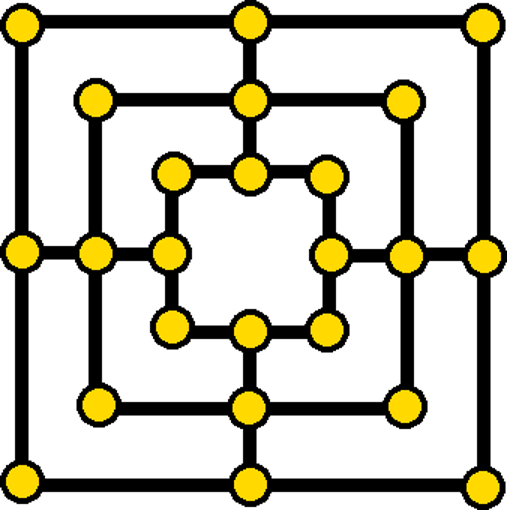
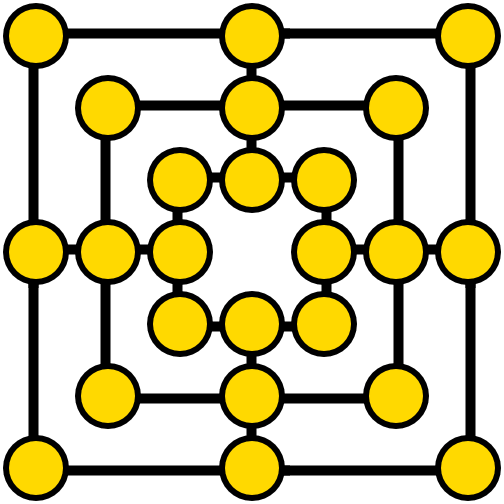
Rediseño del tablero, reposicionamiento del label del turno y mostrar las fichas colocas en el tablero

diff --git a/src/main/java/gui/NineMensMorrisGUI.java b/src/main/java/gui/NineMensMorrisGUI.java
@@ -10,11 +10,15 @@ import java.awt.event.MouseAdapter;
 import java.awt.event.MouseEvent;
 
 public class NineMensMorrisGUI extends JFrame {
-    public static final int CELL_SIZE = 73;
+    public static final int CELL_SIZE = 72;
     public static final int TOTAL_PIECES = 9;
     public static final int HEIGHT_PADDING = 16;
-    public static final String PATH = System.getProperty("user.dir") + "\\src\\assets\\img\\Piece_";
-    public static final String SELECTED = "_Selected.png";
+    private static final String PATH = System.getProperty("user.dir") + "\\src\\assets\\img\\Piece_";
+    private static final String SELECTED = "_Selected.png";
+    private static final ImageIcon WHITEICON = new ImageIcon(PATH + "White.png");
+    private static final ImageIcon WHITESELECTEDICON = new ImageIcon(PATH + "White" + SELECTED);
+    private static final ImageIcon BLACKICON = new ImageIcon(PATH + "Black.png");
+    private static final ImageIcon BLACKSELECTEDICON = new ImageIcon(PATH + "Black" + SELECTED);
 
     private boolean state = true;
     private int indexW = 0;
@@ -24,7 +28,6 @@ public class NineMensMorrisGUI extends JFrame {
     private JLabel[] blackPieces;
 
     private GameBoard gameboard;
-    private TurnBar barStatus;
     private JLabel activePieceIcon;
 
     private NineMensMorrisGame controller;
@@ -45,7 +48,7 @@ public class NineMensMorrisGUI extends JFrame {
 
     private void setContentPane() {
         gameboard = new GameBoard();
-        gameboard.setPreferredSize(new Dimension(512, 576));
+        gameboard.setPreferredSize(new Dimension(504, 600));
 
         whitePieces = new JLabel[TOTAL_PIECES];
         InitPieces whitePieces = new InitPieces("White",this.whitePieces);
@@ -55,9 +58,6 @@ public class NineMensMorrisGUI extends JFrame {
         InitPieces blackPieces = new InitPieces("Black", this.blackPieces);
         blackPieces.setPreferredSize(new Dimension(64, 64*TOTAL_PIECES));
 
-        barStatus = new TurnBar();
-        barStatus.setPreferredSize(new Dimension(512, 90));
-
         Container contentPane = getContentPane();
         contentPane.setLayout(new BorderLayout());
         contentPane.setBackground(Color.decode("#A9814E"));
@@ -65,11 +65,9 @@ public class NineMensMorrisGUI extends JFrame {
         contentPane.add(gameboard, BorderLayout.CENTER);
         contentPane.add(whitePieces, BorderLayout.WEST);
         contentPane.add(blackPieces, BorderLayout.EAST);
-        contentPane.add(barStatus, BorderLayout.SOUTH);
     }
 
     class InitPieces extends JPanel{
-
         JLabel[] piecesList;
 
         InitPieces(String color, JLabel[] piecesList){
@@ -92,65 +90,99 @@ public class NineMensMorrisGUI extends JFrame {
 
     class GameBoard extends JPanel {
         JLabel gameBoardBg = new JLabel();
+        JLabel[][] cellsAvailable = new JLabel[7][7];
 
         GameBoard() {
-            addMouseListener(new MouseAdapter() {
+            setBackground(Color.decode("#A9814E"));
+            setLayout(new BorderLayout());
+
+            for (int i=-3; i<=3; i++){
+                for(int j=-3;j<=3;j++){
+                    if (i==0 && j==0) continue;
+
+                    if(i == 0) {
+                        initCellsOnBoard(3, (j + 3));
+                        continue;
+                    }
+                    if(j == 0) {
+                        initCellsOnBoard((i + 3), 3);
+                        continue;
+                    }
+                    if(Math.abs(i) == Math.abs(j))
+                        initCellsOnBoard((i + 3), (j + 3));
+                }
+            }
+
+            TurnBar barStatus = new TurnBar();
+            barStatus.setPreferredSize(new Dimension(512, 90));
+            add(barStatus);
+
+            gameBoardBg.addMouseListener(new MouseAdapter() {
                 @Override
                 public void mouseClicked(MouseEvent e) {
-                    float rowSelected = (e.getY() - HEIGHT_PADDING) / (float)CELL_SIZE;
-                    float colSelected = (e.getX() - HEIGHT_PADDING) / (float)CELL_SIZE;
+                    int rowSelected = (e.getY() - HEIGHT_PADDING) / CELL_SIZE;
+                    int colSelected = (e.getX()) / CELL_SIZE;
 
                     System.out.println("(x,y): (" + e.getX() + ", " + e.getY() + ")");
                     System.out.println("Casilla: (" + colSelected + ", " + rowSelected + ")");
 
-                    int row = (int)rowSelected;
-                    int col = (int)colSelected;
+                    if(e.getY() <= HEIGHT_PADDING){
+                        System.out.println("No estoy dentro");
+                        return;
+                    }
+
                     //INIT TABLE
-                    if(state && rowSelected >= 0 && colSelected >= 0){
-                        if(controller.getCell(row, col) == Cells.EMPTY) {
-                            System.out.println("Deberia colocar una ficha en esta casilla: (" + col + ", " + row + ")");
+                    if(state){
+                        if(controller.getCell(rowSelected, colSelected) == Cells.EMPTY) {
+                            System.out.println("Deberia colocar una ficha en esta casilla: (" + colSelected + ", " + rowSelected + ")");
 
                             if(controller.getTurn() == 'W' && indexW < TOTAL_PIECES && indexB < TOTAL_PIECES){
                                 whitePieces[indexW++].setEnabled(false);
-                                blackPieces[indexB].setIcon(new ImageIcon(PATH + "Black" + SELECTED));
-                                activePieceIcon.setIcon(new ImageIcon(PATH + "Black.png"));
-                                controller.setCell((int)rowSelected, (int)colSelected);
+                                blackPieces[indexB].setIcon(BLACKSELECTEDICON);
+                                activePieceIcon.setIcon(BLACKICON);
+                                controller.setCell(rowSelected, colSelected);
+                                cellsAvailable[colSelected][rowSelected].setIcon(WHITEICON);
                             }
                             else if (indexB < TOTAL_PIECES && indexW < TOTAL_PIECES){
                                 blackPieces[indexB++].setEnabled(false);
-                                whitePieces[indexW].setIcon(new ImageIcon(PATH + "White" + SELECTED));
-                                activePieceIcon.setIcon(new ImageIcon(PATH + "White.png"));
-                                controller.setCell((int)rowSelected, (int)colSelected);
+                                whitePieces[indexW].setIcon(WHITESELECTEDICON);
+                                activePieceIcon.setIcon(WHITEICON);
+                                controller.setCell(rowSelected, colSelected);
+                                cellsAvailable[colSelected][rowSelected].setIcon(BLACKICON);
                             }else{
                                 blackPieces[indexB].setEnabled(false);
-                                activePieceIcon.setIcon(new ImageIcon(PATH + "White.png"));
-                                controller.setCell((int)rowSelected, (int)colSelected);
+                                activePieceIcon.setIcon(WHITEICON);
+                                controller.setCell(rowSelected, colSelected);
+                                cellsAvailable[colSelected][rowSelected].setIcon(new ImageIcon(PATH + "Black.png"));
+                                state = false;
                             }
-
-                            //state = false;
                         }
-                        else if(controller.getCell(row, col) == Cells.DISABLED)
-                            System.out.println("No puedo colocar la ficha en esta casilla: (" + col + ", "
-                                    + row + "), no es una posicion valida");
+                        else if(controller.getCell(rowSelected, colSelected) == Cells.DISABLED)
+                            System.out.println("No puedo colocar la ficha en esta casilla: (" + colSelected + ", "
+                                    + rowSelected + "), no es una posicion valida");
                         else
-                            System.out.println("No puedo colocar la ficha en esta casilla: (" + col + ", "
-                                    + row + "), esta ocupada");
-
+                            System.out.println("No puedo colocar la ficha en esta casilla: (" + colSelected + ", "
+                                    + rowSelected + "), esta ocupada");
                     }else{
-                        System.out.println("No hay ficha seleccionada");
+                        System.out.println("Culmino la fase de inicio.");
                     }
                 }
             });
 
-            gameBoardBg.setIcon(new ImageIcon(System.getProperty("user.dir") + "\\src\\assets\\img\\GameBoard_S.png"));
+            gameBoardBg.setIcon(new ImageIcon(System.getProperty("user.dir") + "\\src\\assets\\img\\GameBoard.png"));
             gameBoardBg.setOpaque(true);
-            setBackground(Color.decode("#A9814E"));
-            setLayout(new BorderLayout());
 
             gameBoardBg.setHorizontalAlignment(JLabel.CENTER);
             gameBoardBg.setBackground(null);
             gameBoardBg.setBorder(new EmptyBorder(HEIGHT_PADDING,0,0,0));
             add(gameBoardBg, BorderLayout.NORTH);
+        }
+
+        private void initCellsOnBoard(int i, int j){
+            cellsAvailable[i][j] = new JLabel();
+            cellsAvailable[i][j].setBounds(CELL_SIZE*i, (CELL_SIZE*j + HEIGHT_PADDING), CELL_SIZE, CELL_SIZE);
+            cellsAvailable[i][j].setHorizontalAlignment(JLabel.CENTER);
+            add(cellsAvailable[i][j]);
         }
     }
 
@@ -162,7 +194,7 @@ public class NineMensMorrisGUI extends JFrame {
             setBackground(null);
 
             activePieceIcon = new JLabel();
-            activePieceIcon.setIcon(new ImageIcon(PATH + "White.png"));
+            activePieceIcon.setIcon(WHITEICON);
 
             activePieceIcon.setVerticalAlignment(JLabel.NORTH);
             activePieceIcon.setHorizontalAlignment(JLabel.CENTER);
@@ -174,6 +206,4 @@ public class NineMensMorrisGUI extends JFrame {
             add(gameStatusBar, BorderLayout.CENTER);
         }
     }
-
-
 }
